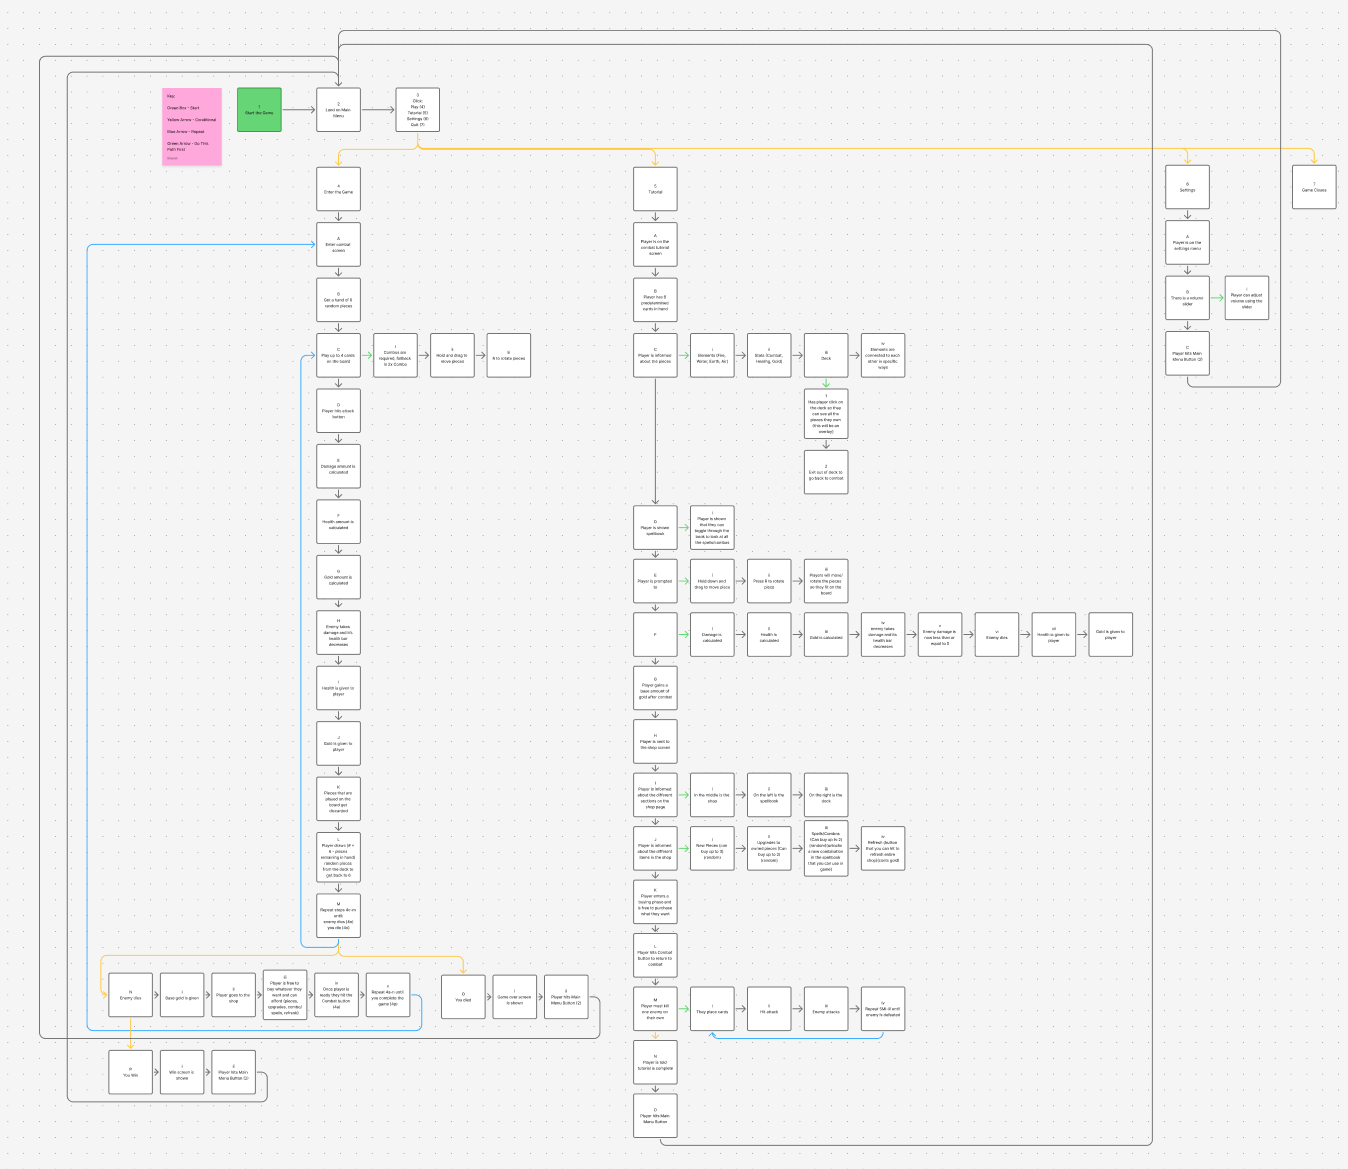
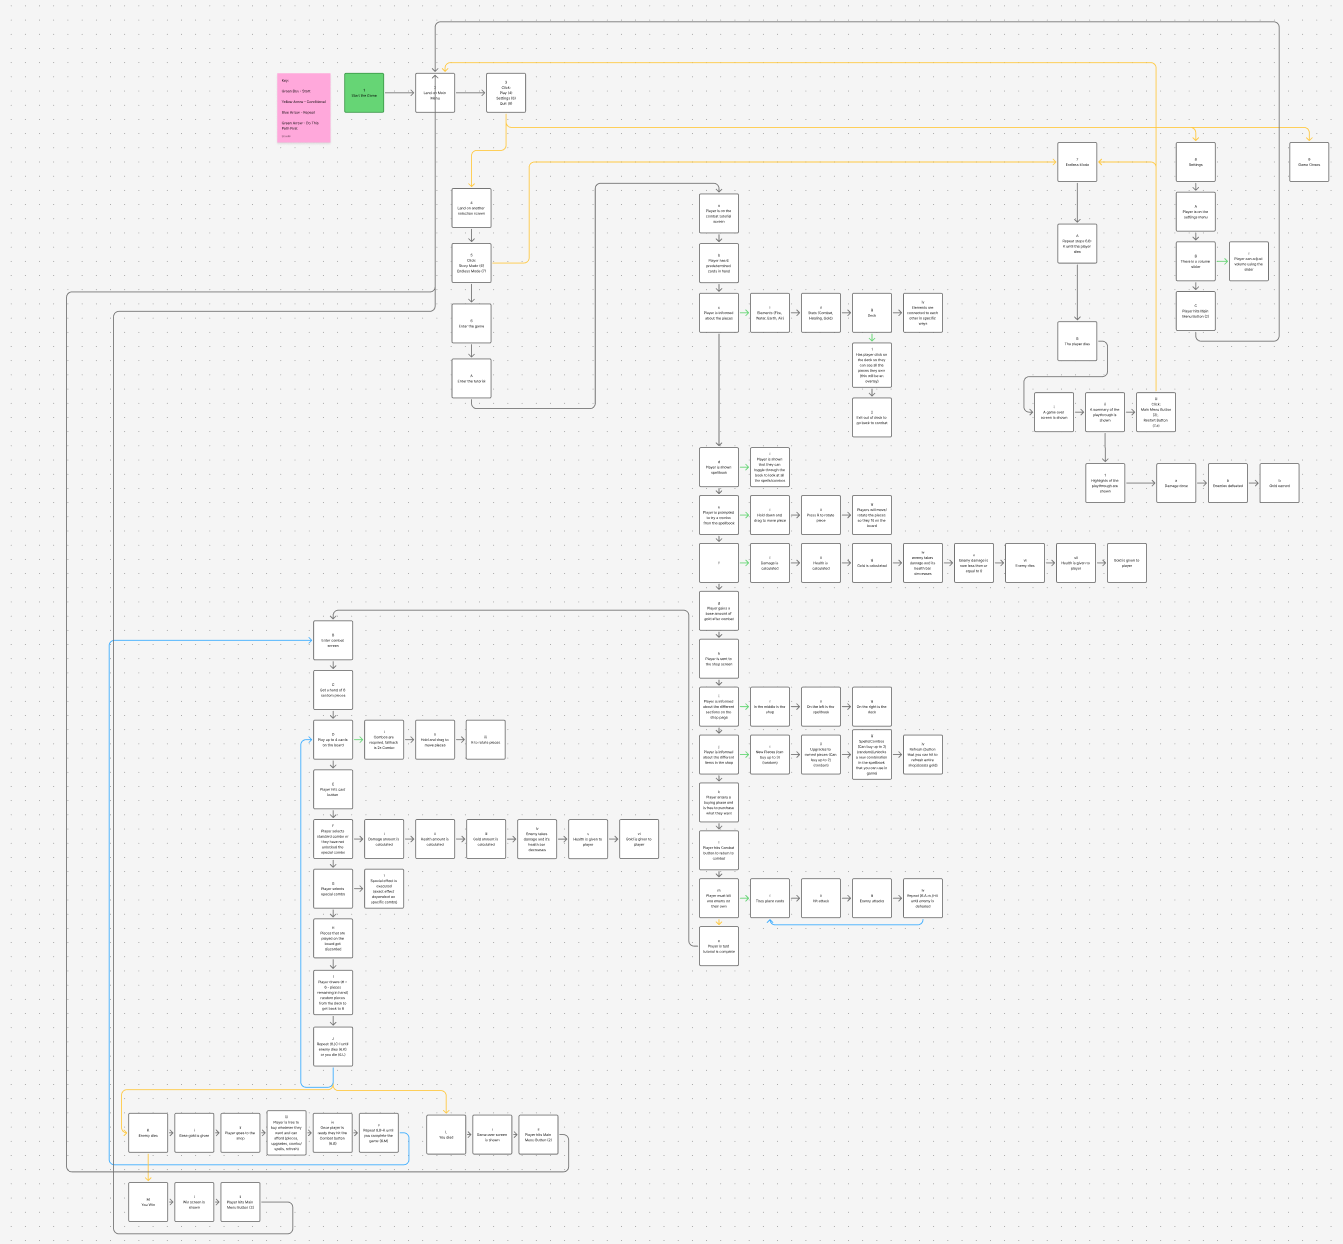
Updated images and readme

diff --git a/Current Projects/Jigsaw Wizards/README.md b/Current Projects/Jigsaw Wizards/README.md
@@ -1,5 +1,5 @@
 # 🎮 Jigsaw Wizards
-<!-- <img src="Images/Logo.jpg" alt="Quit Dreaming Logo" width = 250> -->
+<!-- <img src="Images/Logo.jpg" alt="Jigsaw Wizards Logo" width = 250> -->
 
 **Created:** Jan 2026 - Present
 
@@ -13,10 +13,12 @@
 
 **Genre:** Roguelike
 
-**Description:** Jigsaw Wizards is a 2D roguelike where players assemble puzzle pieces to form spells used to battle enemy wizards.
+**Description:** Jigsaw Wizards is a 2D roguelike where players connect puzzle pieces to form spells used to battle enemy wizards.
 
 **Where to play:**  <a href="https://youbestbelieve.itch.io/jigsaw-wizards-demo">https://youbestbelieve.itch.io/jigsaw-wizards-demo (most recent build)</a>
 
+**Documentation:** <a href="https://docs.google.com/document/d/1UuXoqZdFFWkQbNKGT5b5B-pSvq87jgyGGa2jwiS1qTA/edit?usp=sharing">https://docs.google.com/document/d/1UuXoqZdFFWkQbNKGT5b5B-pSvq87jgyGGa2jwiS1qTA/edit?usp=sharing</a>
+
 **Development:** 
 
-As one of the lead designers on the project, I help shape both the game’s core systems and overall player experience. My contributions include designing the moment-to-moment gameplay loop, developing gameplay mechanics, creating UI mockups in Figma, producing pixel art assets, and balancing systems through iterative playtesting. I also contribute to the game’s narrative direction, helping align its world and characters with the experimental spell-building mechanics.
+As one of the lead designers on the project, I help shape both the game’s core systems and overall player experience. My contributions include designing the moment-to-moment gameplay loop, developing gameplay mechanics, creating UI mockups in Figma, producing pixel art assets, and balancing systems through iterative playtesting. I also contribute to the game’s narrative direction, helping align its world and characters with the gane's mechanics to improve immersion and replayability.
